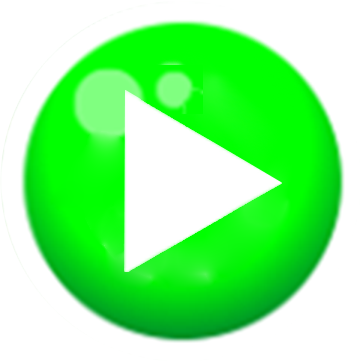
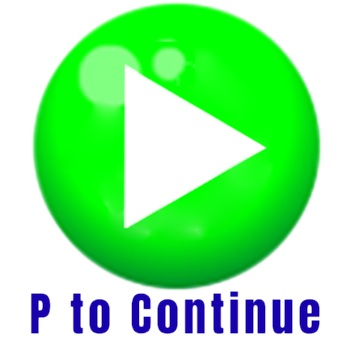
Fully Playable with Keyboard

diff --git a/js/input.js b/js/input.js
@@ -4,6 +4,44 @@ function keyDownHandler(e) {
         e.preventDefault(); // stops the browser from scrolling when these keys are pressed
     }
 
+    // Number keys for Level Select (1, 2, 3) 
+    if (
+    (currentState === state.MATCHLEVEL || currentState === state.SORTLEVEL) &&
+    ["1","2","3"].includes(e.key)
+    ) {
+        // choose which level button to "click"
+        const btn =
+          e.key === "1" ? level1Button :
+          e.key === "2" ? level2Button :
+          level3Button;
+
+        // simulate a mouse click at the center of that button
+        const clickX = canvas.offsetLeft + btn.x + (btn.width / 2);
+        const clickY = canvas.offsetTop  + btn.y + (btn.height / 2);
+
+        e.preventDefault();
+        clickHandler({ pageX: clickX, pageY: clickY });
+        return;
+    }
+
+    // Arrow keys to choose game on "Choose Game" screen
+    if (currentState === state.CHOOSEGAME) {
+        if (e.key === "ArrowLeft") {
+            // Simulate click on Matching button
+            const clickX = canvas.offsetLeft + matchingButton.x + matchingButton.width / 2;
+            const clickY = canvas.offsetTop + matchingButton.y + matchingButton.height / 2;
+            clickHandler({ pageX: clickX, pageY: clickY });
+            return;
+        }
+        if (e.key === "ArrowRight") {
+            // Simulate click on Sorting button
+            const clickX = canvas.offsetLeft + sortingButton.x + sortingButton.width / 2;
+            const clickY = canvas.offsetTop + sortingButton.y + sortingButton.height / 2;
+            clickHandler({ pageX: clickX, pageY: clickY });
+            return;
+        }
+    }
+
     //Only handle keyboard input when we are playing the Matching game and the timer is not paused
     if (currentState == state.PLAYMATCH && !timer.isPaused()) {
         // use row/col math to keep movement tidy
@@ -228,4 +266,70 @@ document.addEventListener("keydown", function(e) {
         e.preventDefault();
         if (typeof togglePause === 'function') togglePause();
     }
+});
+
+// Map P key to: (1) unpause when paused, (2) "click" the Play button on intro screens
+document.addEventListener("keydown", function (e) {
+    if ((e.key || "").toLowerCase() !== "p") return;
+        e.preventDefault();
+
+    // 1) If we’re in a play state and currently paused, P should unpause (same as clicking the big Play icon)
+    if (
+        (currentState === state.PLAYMATCH || currentState === state.PLAYSORT) &&
+        typeof timer !== "undefined" &&
+        timer.isPaused() &&
+        typeof togglePause === "function"
+    ) {
+        togglePause();
+        return;
+    }
+
+    // 2) Otherwise, if we’re on a screen that shows the round Play button, P should "click" it
+    if (
+    currentState === state.MAININTRO ||
+    currentState === state.WELCOME1 ||
+    currentState === state.WELCOME2 ||
+    currentState === state.MATCHINTRO1 ||
+    currentState === state.MATCHINTRO2 ||
+    currentState === state.MATCHINTRO3 ||
+    currentState === state.SORTINTRO1 ||
+    currentState === state.SORTINTRO2
+    ) {
+        // Click the center of the circular Play button so the hit test passes
+        const clickX = canvas.offsetLeft + playButton.x + playButton.size / 2;
+        const clickY = canvas.offsetTop  + playButton.y + playButton.size / 2;
+        clickHandler({ pageX: clickX, pageY: clickY });
+    }
+});
+
+// Map R to "Restart" and H to "Home"
+document.addEventListener("keydown", function (e) {
+  const key = (e.key || "").toLowerCase();
+  if (key !== "r" && key !== "h") return;
+
+  // Only act when those buttons are visible:
+  //  - Paused during play (PLAYMATCH or PLAYSORT)
+  //  - OR on the END screen
+  const onPauseScreen = (currentState === state.PLAYMATCH || currentState === state.PLAYSORT) && typeof timer !== "undefined" && timer.isPaused();
+  const onEndScreen = currentState === state.END;
+
+  if (!onPauseScreen && !onEndScreen) return;
+
+  e.preventDefault();
+
+  if (key === "r") {
+    // simulate a click in the center of the Restart button
+    const clickX = canvas.offsetLeft + restartButton.x + (restartButton.size / 2);
+    const clickY = canvas.offsetTop  + restartButton.y + (restartButton.size / 2);
+    clickHandler({ pageX: clickX, pageY: clickY });
+    return;
+  }
+
+  if (key === "h") {
+    // simulate a click in the center of the Home button
+    const clickX = canvas.offsetLeft + homeButton.x + (homeButton.size / 2);
+    const clickY = canvas.offsetTop  + homeButton.y + (homeButton.size / 2);
+    clickHandler({ pageX: clickX, pageY: clickY });
+    return;
+  }
 });

diff --git a/js/gameLogic.js b/js/gameLogic.js
@@ -279,8 +279,14 @@ function clickHandler(e)
 
             currentState = state.MATCHINTRO2;
 
+            /*
             playButton.x = canvas.width / 2 - originalPlayButtonSize / 2;
             playButton.y = canvas.height / 2 + canvas.height / 4 - originalPlayButtonSize - originalPlayButtonSize / 8;
+            */
+
+            //position for MatchingIntro2 only (move to the left of the bubble)
+            playButton.x = canvas.width / 2 - canvas.width / 3 - originalPlayButtonSize / 2; 
+            playButton.y = canvas.height / 2 - canvas.height / 14 - originalPlayButtonSize;
             playButton.size = originalPlayButtonSize;
             currentPlayButtonSize = originalPlayButtonSize;
             increasePlayButtonSize = true;
